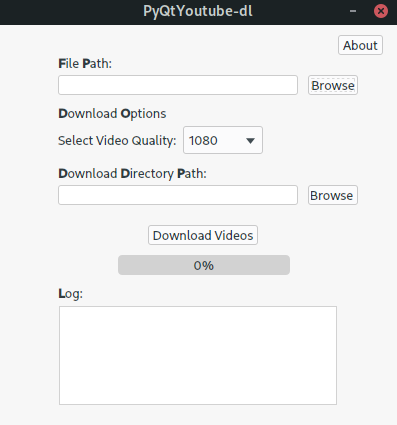
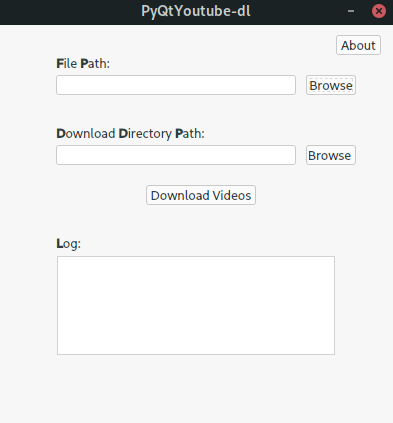
Browse input file and Browse destination directory and Download button together with about and Log fields

diff --git a/QtPyYTdl.py b/QtPyYTdl.py
@@ -18,7 +18,6 @@ import time
 glob_ui_file = "yTGui.ui"
 Ui_MainWindow, QtBaseClass = uic.loadUiType(glob_ui_file)
 
-TIME_LIMIT = 100
 class Logger(object):
     def __init__(self):
         self.terminal = sys.stdout
@@ -30,36 +29,15 @@ class Logger(object):
  
     def flush(self):
         pass  
-    
-class External(QThread):
-    # """
-    # Runs a counter thread.
-    # """
-    countChanged = pyqtSignal(int)
-
-    def run(self):
-        count = 0
-        while count < TIME_LIMIT:
-            count +=1
-            time.sleep(1)
-            self.countChanged.emit(count)
-            
+                
 class mywindow(QtWidgets.QMainWindow, Ui_MainWindow,Logger,QDialog):
-    def __init__(self, dloadIpFile="", dloadDestDir="",vid_q=[]):
+    def __init__(self, dloadIpFile="", dloadDestDir=""):
         QtWidgets.QMainWindow.__init__(self)
         Ui_MainWindow.__init__(self)
         self.setFixedSize(400, 400)
         
         self.setupUi(self)
-        self.vid_q=[1080,720,480,360,240,144]
-       
-        self.comBox_VidQual.addItem(str(self.vid_q[0])) #add item
-        self.comBox_VidQual.addItem(str(self.vid_q[1]))
-        self.comBox_VidQual.addItem(str(self.vid_q[2]))
-        self.comBox_VidQual.addItem(str(self.vid_q[3]))
-        self.comBox_VidQual.addItem(str(self.vid_q[4]))
-        self.comBox_VidQual.addItem(str(self.vid_q[5]))
-                
+                        
         self.dloadIpFile = dloadIpFile
         self.dloadDestDir = dloadDestDir
         
@@ -70,18 +48,9 @@ class mywindow(QtWidgets.QMainWindow, Ui_MainWindow,Logger,QDialog):
         self.BrowseInputButton.clicked.connect(self.openFileNameDialog)
         self.BrowseDloaddirButton.clicked.connect(self.openFileNameDialog2)
         self.DloadVidsButton.clicked.connect(self.DownloadVideos)
-        self.DloadVidsButton.clicked.connect(self.onButtonClick)
         
         self.AboutButton.clicked.connect(self.openAction)
-           
-    def onButtonClick(self):
-        self.calc = External()
-        self.calc.countChanged.connect(self.onCountChanged)
-        self.calc.start()
 
-    def onCountChanged(self, value):
-        self.progBar.setValue(value)
-        
     def openAction(self):
         msg = "<br>Gui for youtube videos download"+"<br>'RaghuKA'"+"<br>'arkumar38@outlook.com'"+"<br> <a href='%s'>https://github.com/RaghuKA/PyQtYoutube-dl</a>" 
         QMessageBox.about(self, "About PyQtYouTube-dl", msg)
@@ -116,40 +85,27 @@ class mywindow(QtWidgets.QMainWindow, Ui_MainWindow,Logger,QDialog):
                     custom_name = fh_list[i].split (',') [1].strip()
                     print(custom_name)
                     self.Log.insertPlainText('Processing download link ' + str(i+1) +' of total '+ str(number_of_links) + '\n')
-                    v=self.comBox_VidQual.currentText()
-                    print(v)
+                    
                     if not custom_name:
                         ydl_opts = {
                             'outtmpl': '%(title)s.%(ext)s',
-                            'format': 'mp4[height='+v+']+bestaudio/best', 
-                            'keepvideo': True,                   
-                            'audioquality': '1',
                             'writedescription': True,
                         }
                     else:
                         ydl_opts = {
                             'outtmpl': custom_name,
-                            'format': 'mp4[height='+v+']+bestaudio/best', 
-                            'keepvideo': True,                   
-                            'audioquality': '1',
                             'writedescription': True,
                         }
                     sys.stdout = Logger()
                     with youtube_dl.YoutubeDL(ydl_opts) as ydl:
                         ydl.download([video_link])
                     
-                    prc= float(100/number_of_links)
-                    print(prc)
-                    pc=0
-                    for i in range(0,number_of_links):
-                        pc=pc+prc
-                        self.onCountChanged(pc)
-                self.Log.insertPlainText('Download finished \n')
+                    self.Log.insertPlainText('Download finished \n')
             else:
                 print('The directory does not exist')
         else:
             self.Log.insertPlainText ("The package youtube-dl is not installed. Install the package using pip install youtube_dl. Cannot download videos!")
-
+        
 if __name__ == "__main__":    
     app = QtWidgets.QApplication (sys.argv)
     window = mywindow ()

diff --git a/README.md b/README.md
@@ -24,13 +24,13 @@ Clone the repository:
 
 Step 2:	Click on the Browse button for Download Directory Path. Then choose the directory 
         where videos have to be downloaded from the Select directory window.
-		
+
 Step 3: Click on the Download Videos button
 
 # Format of videoslist.txt
 The file has two components - youtube link and desired filename for the video, all separated by commas. An example file would look like:
 
-	https://www.youtube.com/watch?v=17bgzTfibNo, Vid1
+    https://www.youtube.com/watch?v=17bgzTfibNo, Vid1
 	https://www.youtube.com/watch?v=UPPp8RXXEXY, Vid2
 
 Two videos will be downloaded in succession.
